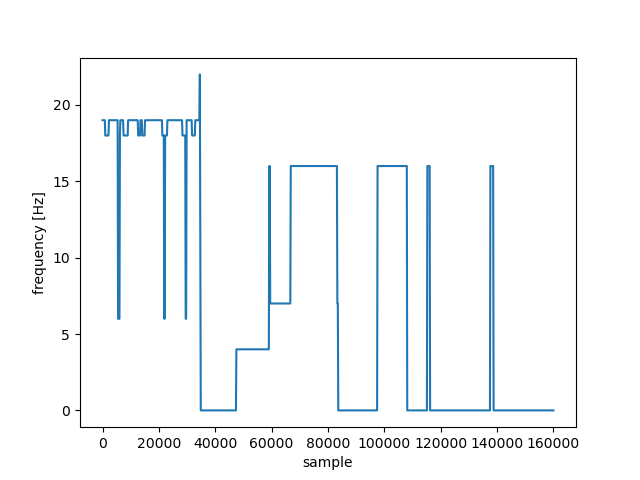
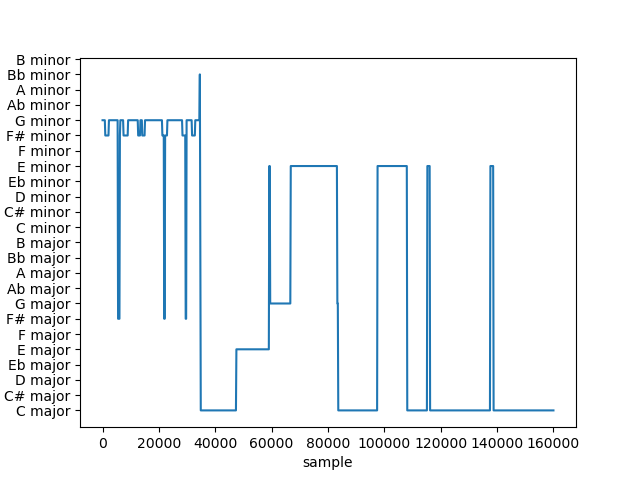
軸にコードを表示

Changed region(s): [[0.0, 0.0938, 0.125, 0.875]]

diff --git a/chroma.py b/chroma.py
@@ -99,6 +99,11 @@ plt.plot(np.linspace(0, len(x), len(estimated)), estimated)
 #     aspect='auto',
 #     interpolation='nearest'
 # )
+plt.yticks(np.arange(24),
+           list(map(lambda key: f"{key} major", ["C", "C#", "D", "Eb", "E", "F", "F#", "G", "Ab", "A", "Bb", "B"])) +
+           list(map(lambda key: f"{key} minor", ["C", "C#", "D", "Eb", "E", "F", "F#", "G", "Ab", "A", "Bb", "B"]))
+           )
+
 
 plt.show()
 fig.savefig('plot/code/est-cma.png')
